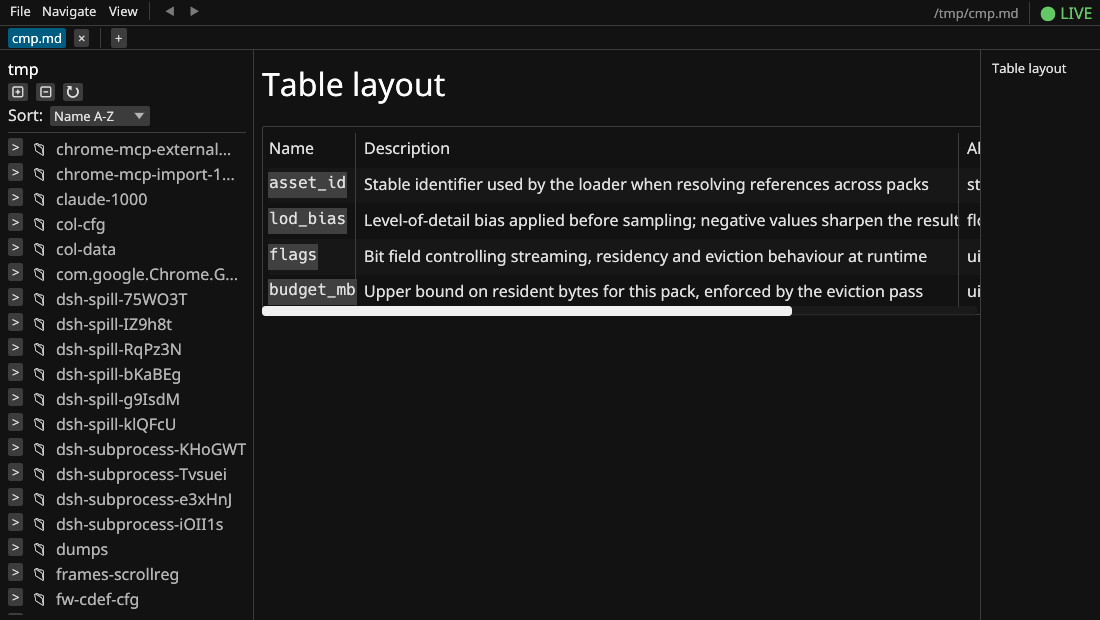
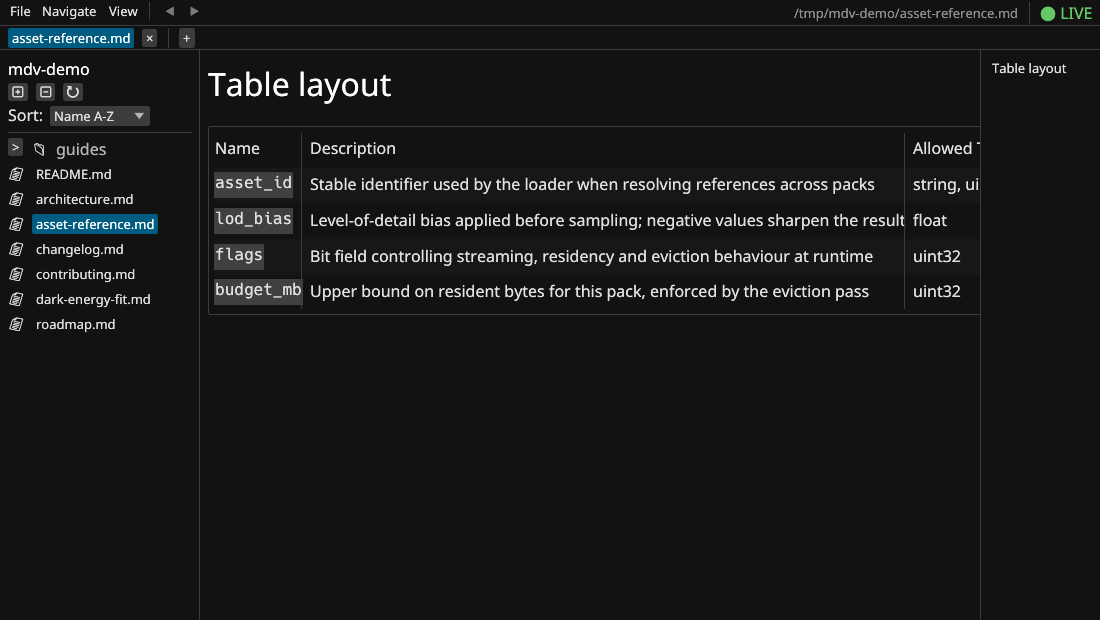
chore(readme): retake the 0.2.0 screenshots with a presentable file tree (#168)
All four screenshots added for 0.2.0 were captured with the file explorer
rooted at /tmp, so the sidebar advertised the feature with a directory full of
this repository's own test scaffolding — dsh-spill-75WO3T, dsh-subprocess-iOII1s,
frames-scrollreg, chrome-mcp-import, claude-1000. They are retaken against a
small demo tree with realistic document names.

The table pair had a second, substantive problem. The two shots were taken with
different persisted explorer widths (boundary at x=254 vs x=215), so the document
pane differed by ~39px between them — while the caption claims "same document and
same window width". Both are now captured from fresh, isolated XDG state, so each
build uses its own default. A 16px difference remains (x=199 vs x=215) because
0.2.0 widened the sidebar resize gutters in #79; it runs against the new version,
which fits every column in slightly less room.

The caption also claimed the overflow sat "behind a horizontal scrollbar". No
scrollbar is visible in the recaptured image (egui only shows it transiently), so
the wording now describes what the image actually shows.

view-menu.png was captured at 1040px wide, a width at which a frontmatter
document stops painting below the first paragraph — see #167. Retaken at 1200px
so the README does not ship the defect. frontmatter.png also shows #166's wrap
fix: the abstract value now wraps to two lines instead of ending at the frame.

diff --git a/README.md b/README.md
@@ -29,7 +29,7 @@ A fast, lightweight markdown viewer for Linux built with Rust and egui. Designed
 
 ![Syntax highlighting and a mermaid sequence diagram](screenshots/syntax-highlighting.png)
 
-*Wide tables, same document and same window width. Before, three of five columns sat outside the pane behind a horizontal scrollbar; now every column fits and long cell text wraps instead of being clipped*
+*Wide tables, same document and same window width. In v0.1.17 the last three columns were cut off at the pane edge and reachable only by scrolling the table sideways; in 0.2.0 every column fits and long cell text wraps instead of being clipped*
 
 | v0.1.17 | 0.2.0 |
 |---|---|
